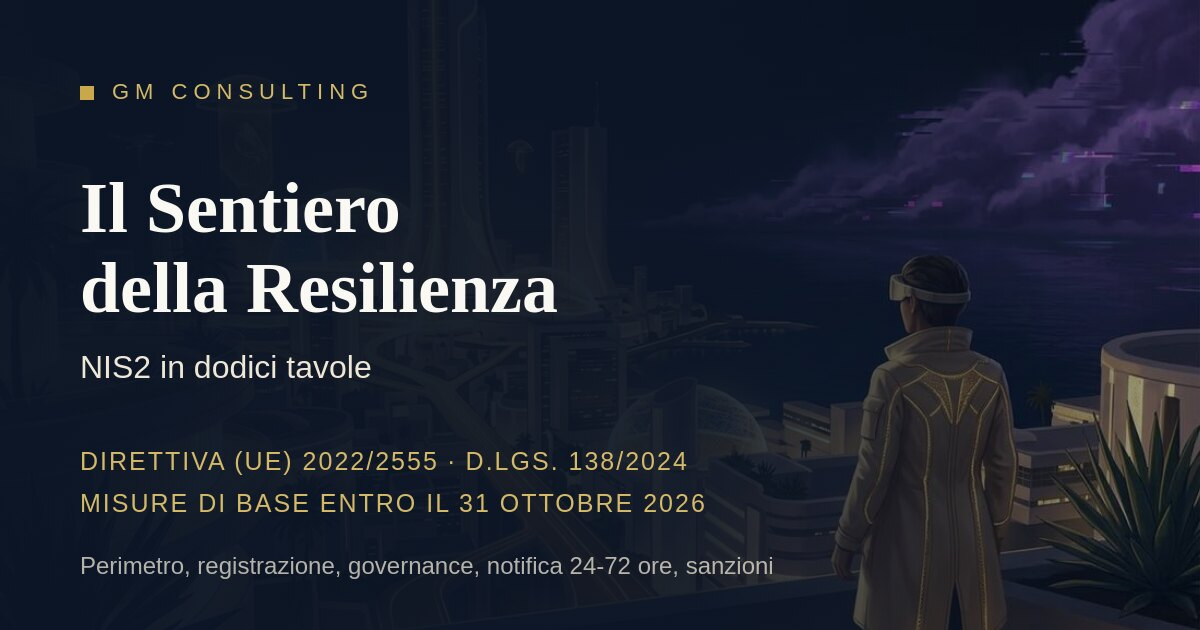
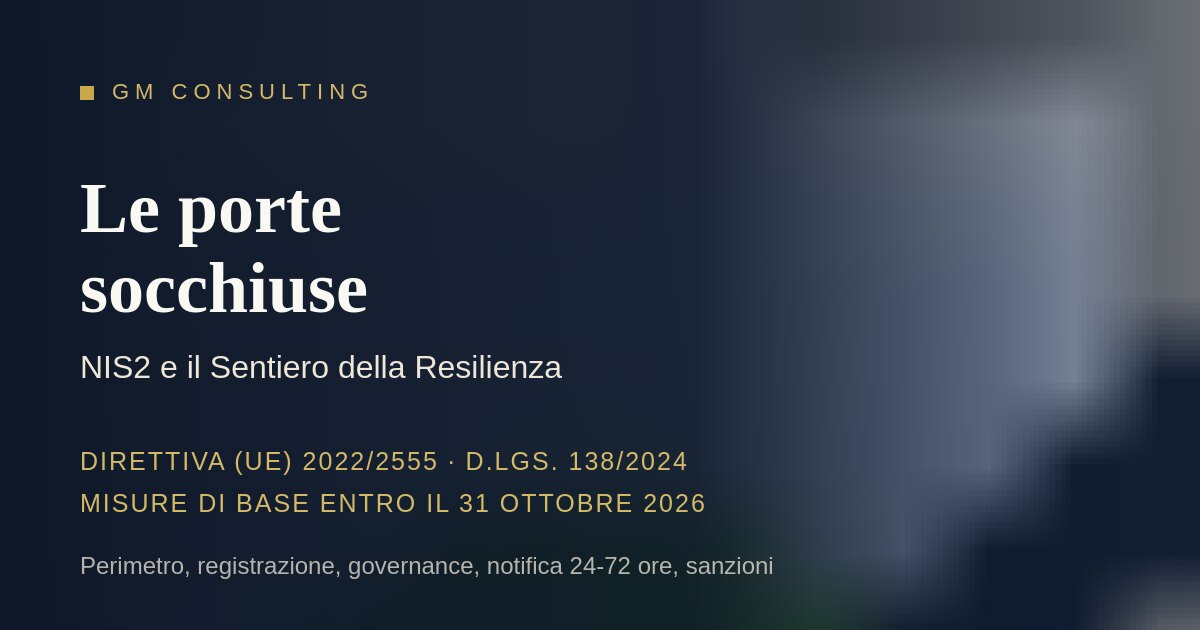
insight NIS2: titolo con la citazione delle porte socchiuse ed evidenze in grassetto

diff --git a/src/lib/insights.ts b/src/lib/insights.ts
@@ -17,9 +17,9 @@ export interface InsightEntry {
 export const insights: InsightEntry[] = [
   {
     slug: "sentiero-resilienza-nis2-dlgs-138-2024",
-    title: "Il Sentiero della Resilienza: NIS2 in dodici tavole",
+    title: "Le porte socchiuse: NIS2 e il Sentiero della Resilienza",
     subtitle:
-      "Perimetro, registrazione, governance, notifica 24-72 ore e sanzioni del D.Lgs. 138/2024",
+      "«Le Ombre entrano dalle porte lasciate socchiuse»: perimetro, scadenze, obblighi e sanzioni del D.Lgs. 138/2024 in dodici tavole",
     readingTime: "11 min",
     date: "29 agosto 2026",
     datePublished: "2026-08-29",
